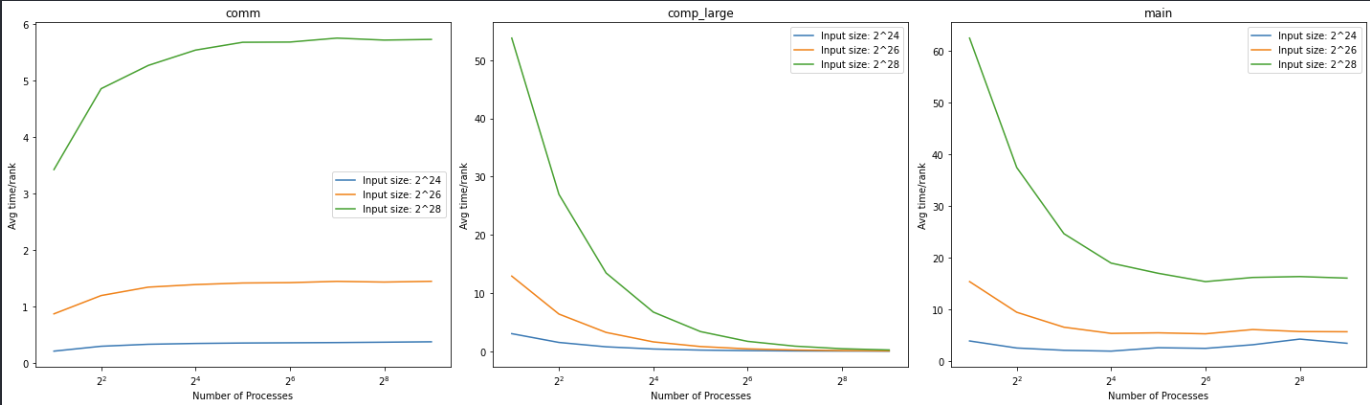
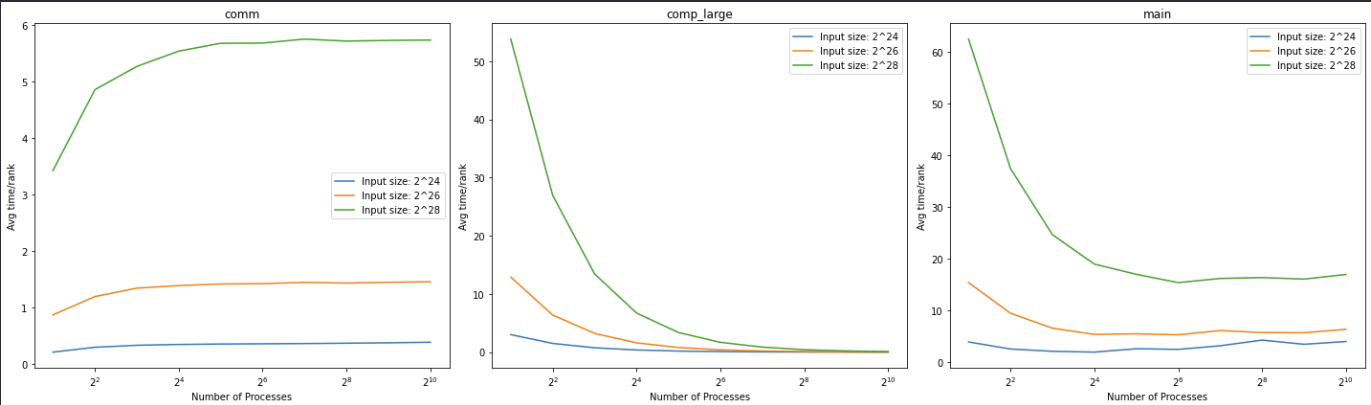
Finalized report for merge sort

diff --git a/merge_sort/merge_sort.cpp b/merge_sort/merge_sort.cpp
@@ -87,7 +87,7 @@ void mergesort(int *arr, int size)
     int *left = new int[mid];
     int *right = new int[size - mid];
 
-    memcpy(left, arr, mid * sizeof(int));                 
+    memcpy(left, arr, mid * sizeof(int));
     memcpy(right, arr + mid, (size - mid) * sizeof(int));
 
     // recurvsive sort
@@ -217,7 +217,6 @@ int main(int argc, char **argv)
                 CALI_MARK_BEGIN("comp");
                 CALI_MARK_BEGIN("comp_large");
 
-                // merge
                 int *mergedArray = new int[localSize + recvSize];
                 merge(localArray, localSize, recvArray, recvSize, mergedArray);
 

diff --git a/Report.md b/Report.md
@@ -891,25 +891,35 @@ perform runs that invoke algorithm2 for Sorted, ReverseSorted, and Random data).
     - Total time
     - Variance time/rank
 
-### Merge Sort Graphs and Explanations
+### Merge Sort Graphs and Analysis
 
-I was unable to get the 512 and 1024 cali files due to issues with the Grace queue and hydra errors. However, all other cali files are finished.
-
-This first set of graphs shows the mergesort algorithm as the number of processors are increased with random data generation. The three lines represent the largest three array sizes that were used. These are plotted with the average time per rank on the y axis and the number of processors on the x axis. Comm, comp_large, and main were all plotted separately. From the graphs it was apparent that as the number of processors increased, the time to sort the arrays decreased. It also showed that as more processors got added, the comp_large time for each processor decreased. This makes sense because the work is distributed more among multiple processes. Finally, it can be seen that as processors are increased the average communication time between the processors increased since there are more processes to communicate with.
+This first set of graphs shows the merge sort algorithm with strong scaling and random data generation. The three lines represent the largest three array sizes that were used (2^22, 2^24, 2^26). These are plotted with the average time per rank on the y axis and the number of processors on the x axis. Comm, comp_large, and main were all plotted separately. From the graphs it was apparent that as the number of processors increased, the time to sort the large arrays decreased. It also showed that as more processors got added, the comp_large time for each processor decreased. This makes sense because the work is distributed more among multiple processes. This allows each processor to do less computation. Finally, as processors are increased the average communication time began to rise since there are more processes to communicate with. 
 
 ![Average values for large arrays with random input](./merge_sort/graphs/large_avg.png)
 
-The next set of graphs shows the same mergesort algorithm except using the max time per rank. It is important to look at the max time per rank because it can accurately show bottlenecks and accurately represents the runtime of the algorithm. These follow the same patterns as the previous set of graphs. As the number of processors increases, the main runtime and comp_large time decreases. Then, as the number of processes increases the communication time remains around the same.
+The next set of graphs shows the same merge sort algorithm with strong scaling and random data generation except with the max time per rank. It is important to look at the max time per rank because it can accurately show bottlenecks and accurately represents the runtime of the algorithm since it is the worst case. These follow the same patterns as the previous set of graphs. As the number of processors increases, the main runtime and comp_large time decreases. Then, as the number of processes increases the communication time remains around the same.
 
 ![Max values for large arrays with random input](./merge_sort/graphs/large_max.png)
 
-For the smaller array types we can see the effects of parallelizing mergesort may not always be beneficial. For these arrays, we can sort the data in usually around two seconds time. However, when it starts to get parallelized, it opens the door for overhead to impact the final time. Since it is sorting so fast, any overhead will have a significant difference. The larger arrays take a very long time to sort, and thus overhead is not as significant as on the very small arrays that sort quickly.
+For the smaller array types we can see the effects of parallelizing merge sort may not always be beneficial. For these arrays, we can sort the data in usually around two seconds time. However, when it starts to get parallelized, it opens the door for overhead to impact the final time. Since it is sorting so fast, any overhead will have a significant difference. The larger arrays take a very long time to sort, and thus overhead is not as significant as on the very small arrays that sort quickly. We can see this with the spikes in the communication time. Although small, these times have a significant contribution to the overall time of the sort because the array is being sorted so quickly. This in comparison with the prior graphs show a trade-off when using parallel merge sort. For large arrays, the computational benefit is greater than the communication overhead. However, with small arrays, this communication overhead is greater than the computational benefit, and actually ends up making the sorting process slower. 
 
-![Average values for small arrays with random input](./merge_sort/graphs/small_avg.png)
+![Max values for small arrays with random input](./merge_sort/graphs/small_max.png)
 
-The final set of graphs compares how comm, comp_large, and main are impacted by how the array of data is before sorting. This is compared on the largest array size of 2^28. Sorted, reverse sorted, and 1% perturbed are all very similar. However, random data is a bit different. Random data has a larger comm time, comp_large time, and main time by a pretty significant margin. 
+This set of graphs shows the speedup for each of the sorted input types for every size of array. The smaller arrays don't have much speedup at all, and some even seem to get slower. This can be attributed to any significant overhead due to the short time it takes to sort these arrays. However, the large arrays start to see significant speedups, with the 2^28 sized array peaking at over ten times as fast. The randomly sorted arrays also have a worse speedup compared to the other input types. This is likely due to the unpredictable nature of the array, and causes more communication overhead.
+
+![Strong speedup for all arrays and input types](./merge_sort/graphs/strong_speedup.png)
+
+Weak scaling for main and comm times can be seen in these two graphs. The linear line for main suggests that it may not have scaled as well as it should have. For main, each of the four input types scaled the same. However, for communication it is a bit different. The random input type was an outlier and scaled worse than the other three. This is likely due to more communication overhead as a result of the unpredictable nature of the array.
+
+![Weak scaling for main and comm times](./merge_sort/graphs/weak_scaling.png)
+
+These next set of graphs shows strong scaling for comm, comp_large, and main for a 2^28 size array for each of the four input types. Sorted, reverse sorted, and 1% perturbed are all similar. However, random data has a constant difference with each processor count.
 
 ![Runtimes for 2^28 array with different input types](./merge_sort/graphs/large_input_comparison.png)
+
+This final set of graphs shows strong scaling for comm, comp_large, and main for a 2^16 size array for each of the four input types. These are similar to the previous graphs, in which random had constant spacing between the other three. However, for main, there was not this constant difference. This is likely due to the fact that the array was not large enough for the computational overhead to create that constant difference in time. As the array size grows, it is expected that the constant between random and the other three input types in the main runtime would also grow.
+
+![Runtimes for 2^16 array with different input types](./merge_sort/graphs/small_input_comparison.png)
 
 ### Radix Sort Graphs and Explanations
 Note: There are a few missing data points throughout the graphs 
